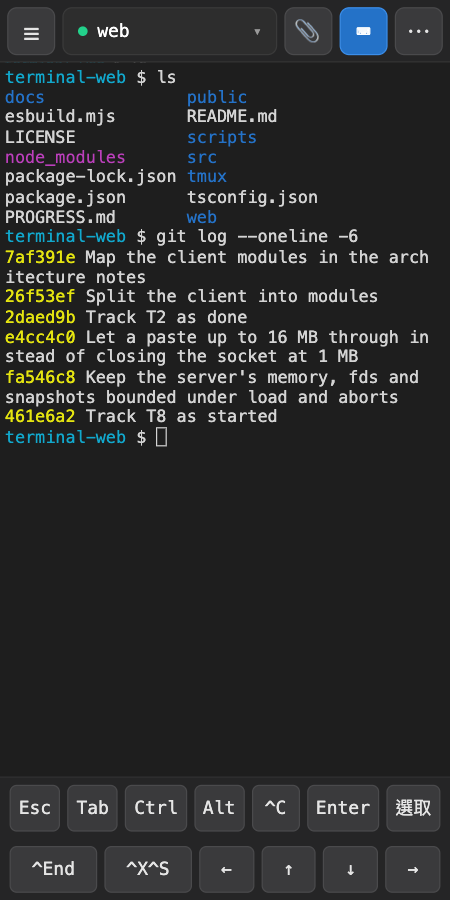
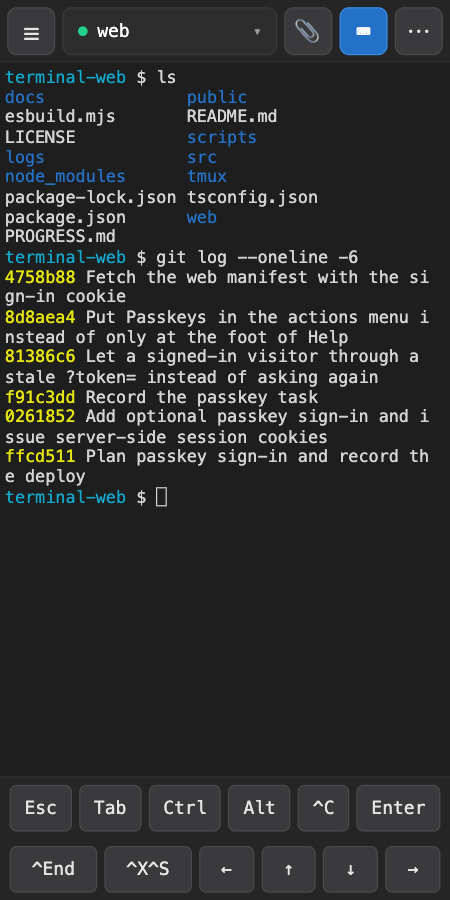
Move touch select from the key bar into the ⋯ sheet
Long-press already selects a word, so the 選取 key spent a key-bar slot on
something rarely needed. Turning select mode on now shows the selection bar
right away and keeps it up, so its 取消 is always the way out.

diff --git a/web/ui/keybar.ts b/web/ui/keybar.ts
@@ -2,10 +2,9 @@
 
 import { keybarEl } from '../dom.js';
 import { activeSession } from '../state.js';
-import { flashStatus, flashWhileDown } from '../status.js';
+import { flashWhileDown } from '../status.js';
 import { savePrefs } from '../api.js';
 import { fitActive, updateKeybarHeight } from '../layout.js';
-import { setSelectBtn, setTouchSelectMode, touchSelectMode } from './selbar.js';
 import { keysBtn } from './topbar.js';
 import { refreshMobileUI } from './mobile.js';
 
@@ -30,7 +29,6 @@ interface KeyDef {
   label?: string;
   seq?: string;
   mod?: 'ctrl' | 'alt';
-  action?: 'select';
   /** Force a line break here (mobile only): the keys after it wrap to a new row. */
   rowBreak?: boolean;
 }
@@ -41,10 +39,6 @@ const KEYS: KeyDef[] = [
   { label: 'Alt', mod: 'alt' },
   { label: '^C', seq: '\x03' },
   { label: 'Enter', seq: '\r' },
-  // Touch text-selection toggle: while armed, drag on the terminal to select,
-  // then copy from the selection bar (a tablet's stand-in for desktop
-  // Option-drag selection).
-  { label: '選取', action: 'select' },
   // On a phone the arrows get their own second row; everything else stays on the first.
   { rowBreak: true },
   // Ctrl+End: jump to the bottom in Claude Code's fullscreen view (CSI 1;5F).
@@ -110,7 +104,6 @@ export function buildKeybar(): void {
     b.textContent = def.label ?? '';
     b.title = def.label ?? '';
     if (def.mod) modButtons[def.mod] = b;
-    if (def.action === 'select') setSelectBtn(b);
     b.addEventListener('pointerdown', (e) => {
       e.preventDefault();
       // On touch, never refocus the terminal: focusing its textarea pops up the
@@ -118,14 +111,6 @@ export function buildKeybar(): void {
       // focus isn't needed — preventDefault already keeps whatever focus state
       // (and thus the keyboard) the user already had.
       const refocus = e.pointerType !== 'touch';
-      if (def.action === 'select') {
-        // Toggle touch-select mode. While on, dragging the terminal selects text
-        // (copied from the selection bar) instead of scrolling; tap again to go
-        // back to scrolling. Never refocus — that would pop the soft keyboard.
-        setTouchSelectMode(!touchSelectMode);
-        flashStatus(touchSelectMode ? '選取模式:拖曳選字,放開後再按複製' : '選取關閉', 1800);
-        return;
-      }
       if (def.mod) {
         if (def.mod === 'ctrl') ctrlArmed = !ctrlArmed;
         else altArmed = !altArmed;

diff --git a/web/ui/selbar.ts b/web/ui/selbar.ts
@@ -7,18 +7,14 @@ import { flashStatus } from '../status.js';
 import { copyText } from '../clipboard.js';
 import { cssPx } from '../layout.js';
 
-// Touch "select" mode (toggled from the key bar). tmux runs with `mouse on`, so
+// Touch "select" mode (turned on from the ⋯ sheet). tmux runs with `mouse on`, so
 // a finger drag is normally hijacked for scrolling and there is no way to make a
 // text selection by touch (on desktop you hold Option to bypass tmux's mouse
 // reporting; a tablet has no such key). While this is on, a one-finger drag
 // selects text instead of scrolling, and the selection bar's 複製 copies it.
+// The bar stays up for as long as the mode is on, so its 取消 is always there
+// to leave it — there is no key to tap again any more.
 export let touchSelectMode = false;
-// The key bar's 選取 key, set when the key bar is built (see ui/keybar.ts).
-let selectBtn: HTMLElement | null = null;
-
-export function setSelectBtn(b: HTMLElement): void {
-  selectBtn = b;
-}
 
 // --- selection actions (touch) ---------------------------------------------
 // Copying used to happen the instant you lifted your finger, so one imprecise
@@ -47,11 +43,12 @@ export function hideSelectionBar(): void {
   selBar.classList.add('hidden');
 }
 
-/** Turn touch-select mode on or off, keeping the key and the bar in step. */
+/** Turn touch-select mode on or off, keeping the bar in step. */
 export function setTouchSelectMode(on: boolean): void {
   touchSelectMode = on;
-  selectBtn?.classList.toggle('armed', on);
-  if (!on) {
+  if (on) {
+    showSelectionBar();
+  } else {
     activeSession?.clearSelectionRange();
     hideSelectionBar();
   }
@@ -90,4 +87,17 @@ selBarButton('取消', '', () => {
 
 export function buildSelBar(): void {
   document.body.append(selBar);
+  // A drag in select mode hides the bar while it runs, and the session shows it
+  // again only when the drag selected something. After a plain tap, or a tab
+  // switch, bring it back so 取消 is still there. Runs after the session's own
+  // touchend handler, which is registered on the terminal itself.
+  document.addEventListener(
+    'touchend',
+    () => {
+      setTimeout(() => {
+        if (touchSelectMode) showSelectionBar();
+      }, 0);
+    },
+    { passive: true },
+  );
 }

diff --git a/web/overlays.ts b/web/overlays.ts
@@ -72,7 +72,7 @@ export function openHelp(): void {
   box.innerHTML =
     '<div class="help-title">How to copy / paste / files</div>' +
     '<ul class="help-list">' +
-    `<li><b>Copy</b> — hold <b>${selKey}</b> and drag to select; it copies automatically. (Or select, then <b>${copyKey}</b>.) On a phone/tablet, tap <b>選取</b> on the key bar and drag over the text, or long-press a word; adjust with the handles, then tap <b>複製</b>.</li>` +
+    `<li><b>Copy</b> — hold <b>${selKey}</b> and drag to select; it copies automatically. (Or select, then <b>${copyKey}</b>.) On a phone/tablet, long-press a word, or choose <b>⋯ → Select text by dragging</b> and drag over the text; adjust with the handles, then tap <b>複製</b> (<b>取消</b> leaves select mode).</li>` +
     `<li><b>Paste</b> — click the terminal, then <b>${pasteKey}</b>${
       isMac ? '' : ' (or Ctrl+Shift+V)'
     }. On a phone/tablet, open <b>⋯ → 📋 Paste</b>; if the browser can't read the clipboard, paste into the box that appears.</li>` +

diff --git a/web/ui/mobile.ts b/web/ui/mobile.ts
@@ -7,7 +7,7 @@ import { openPasskeys } from '../passkeys.js';
 import { promptDownload } from '../transfer.js';
 import { pasteFromClipboard } from '../clipboard.js';
 import { LAYOUT_BUTTONS, sheetLayoutButtons } from '../layout.js';
-import { copySelectionNow } from './selbar.js';
+import { copySelectionNow, setTouchSelectMode } from './selbar.js';
 import type { Session } from '../session.js';
 import {
   activateSession,
@@ -287,6 +287,11 @@ sheet.append(
     },
     true,
   ),
+  sheetRow('✂', 'Select text by dragging', () => {
+    closeSheet();
+    setTouchSelectMode(true);
+    flashStatus('選取模式：拖曳選字，再按複製；按取消離開', 2400);
+  }),
   sheetRow(
     '📎',
     'Attach a file',

diff --git a/README.md b/README.md
@@ -377,9 +377,9 @@ history you browse is tmux's.
 - **Phone top bar** (narrower than 640 px) — `☰`, the current session's name
   (tap for the session drawer), `📎` (attach a file), `⌨`, `⋯`.
 - **`⋯` actions sheet** — font size (A− / A+), split view, restart,
-  **📋 Paste**, **⧉ Copy the screen**, **📎 Attach a file**, download,
-  fullscreen, help.
-- **Key bar** — `Esc` `Tab` `Ctrl` `Alt` `^C` `Enter` `選取`, then (on a phone,
+  **📋 Paste**, **⧉ Copy the screen**, **✂ Select text by dragging**,
+  **📎 Attach a file**, download, fullscreen, help, passkeys.
+- **Key bar** — `Esc` `Tab` `Ctrl` `Alt` `^C` `Enter`, then (on a phone,
   on its own row) `^End` `^X^S` `←` `↑` `↓` `→`.
   - `Ctrl` and `Alt` are **sticky**: tap to arm (they highlight), and the next
     key is sent with that modifier — `Ctrl` then `c` is `Ctrl-C`;
@@ -387,7 +387,6 @@ history you browse is tmux's.
   - `^End` sends Ctrl+End (jumps to the bottom in Claude Code's fullscreen
     view).
   - `^X^S` sends Ctrl+X then Ctrl+S in one tap (emacs's save).
-  - `選取` toggles touch selection mode (see [Copy & paste](#copy-paste--clipboard)).
   - A key pressed while the terminal is **disconnected is dropped**, not sent
     later, with a brief 「未連線，按鍵沒有送出」 notice.
 
@@ -510,10 +509,10 @@ This app works around that, so HTTPS isn't required.
 
 **Touch (phone / tablet)**
 
-- **Copy:** tap **選取** on the key bar, then drag over the text — or just
-  **long-press a word** to select it. Adjust either end with the drag
+- **Copy:** **long-press a word** to select it, or choose **⋯ → ✂ Select
+  text by dragging** and drag over the text. Adjust either end with the drag
   handles, then tap **複製** on the selection bar (**全選** selects the whole
-  screen, **取消** cancels). **⋯ → ⧉ Copy the screen** does select-all and copy
+  screen, **取消** cancels and leaves select mode). **⋯ → ⧉ Copy the screen** does select-all and copy
   in one tap.
 - **Paste:** **⋯ → 📋 Paste**. Over HTTPS it pastes directly; over plain HTTP a
   small box opens — paste into it and it's sent to the terminal.
